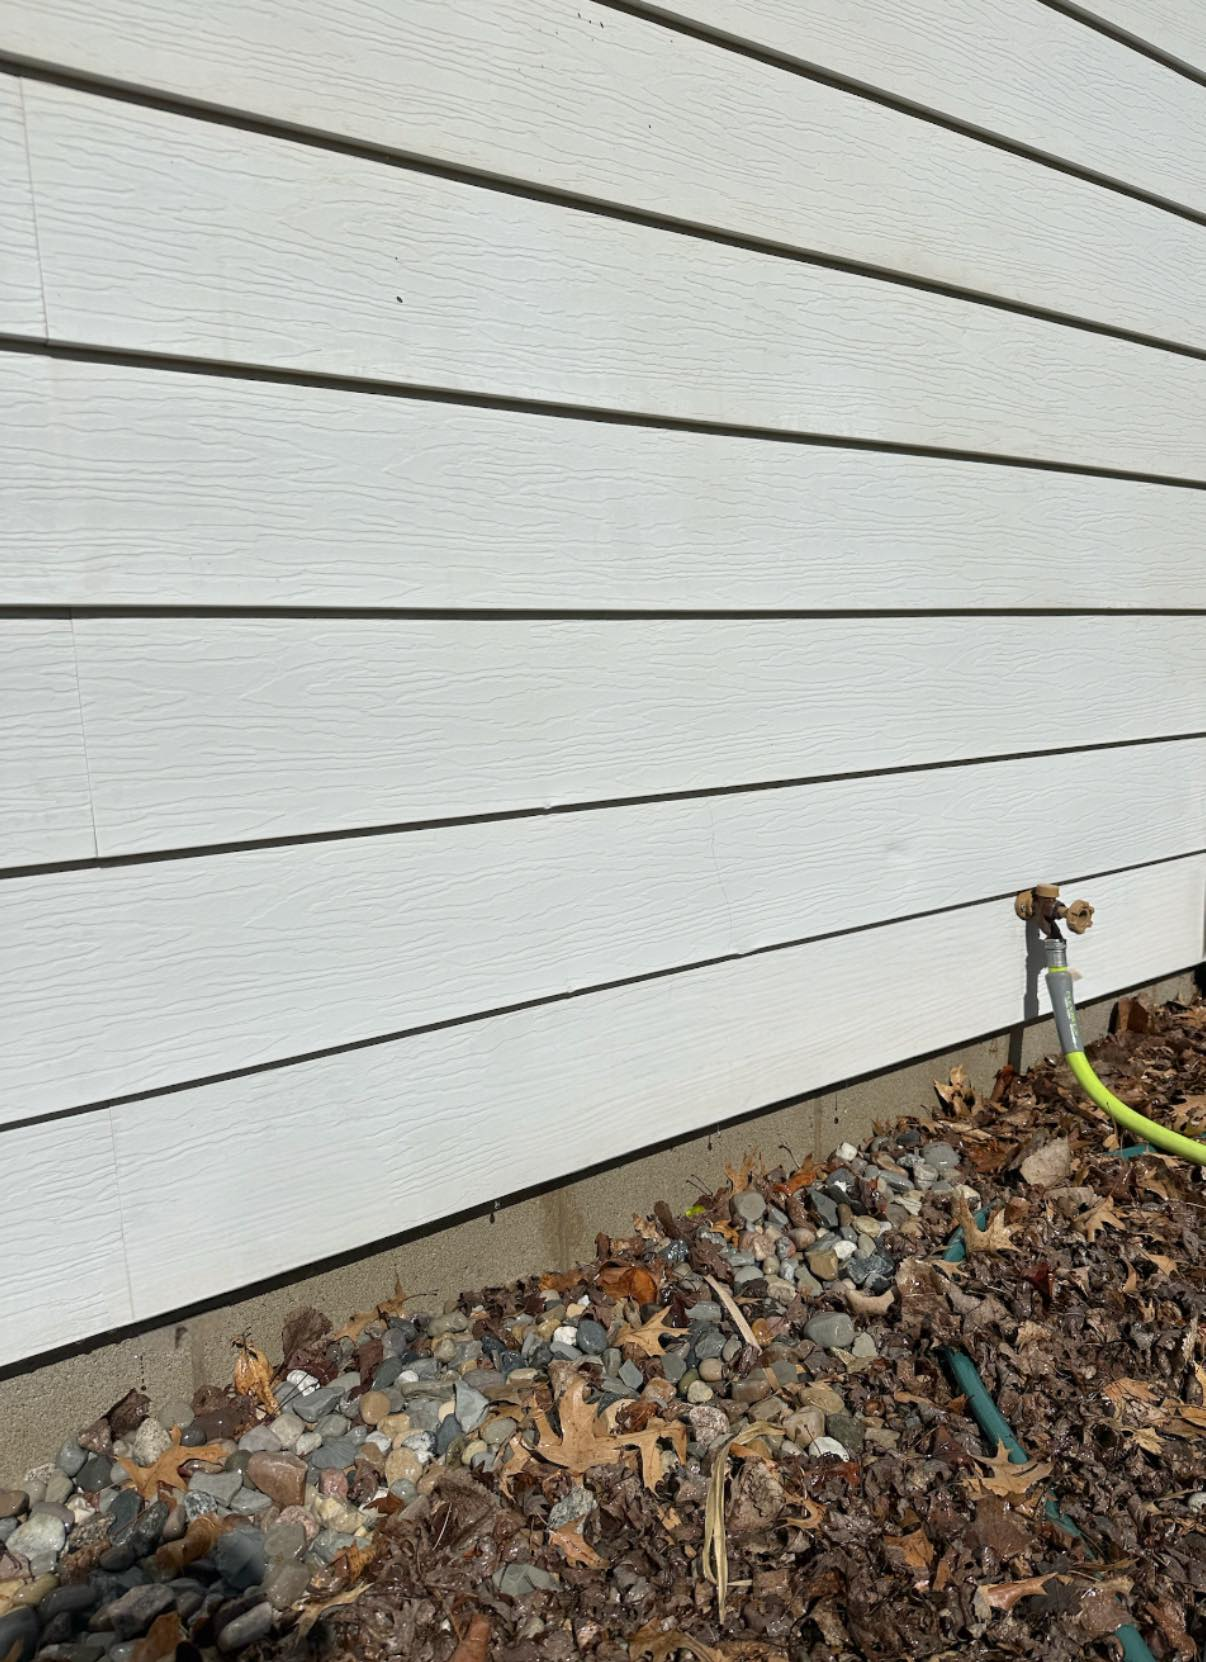
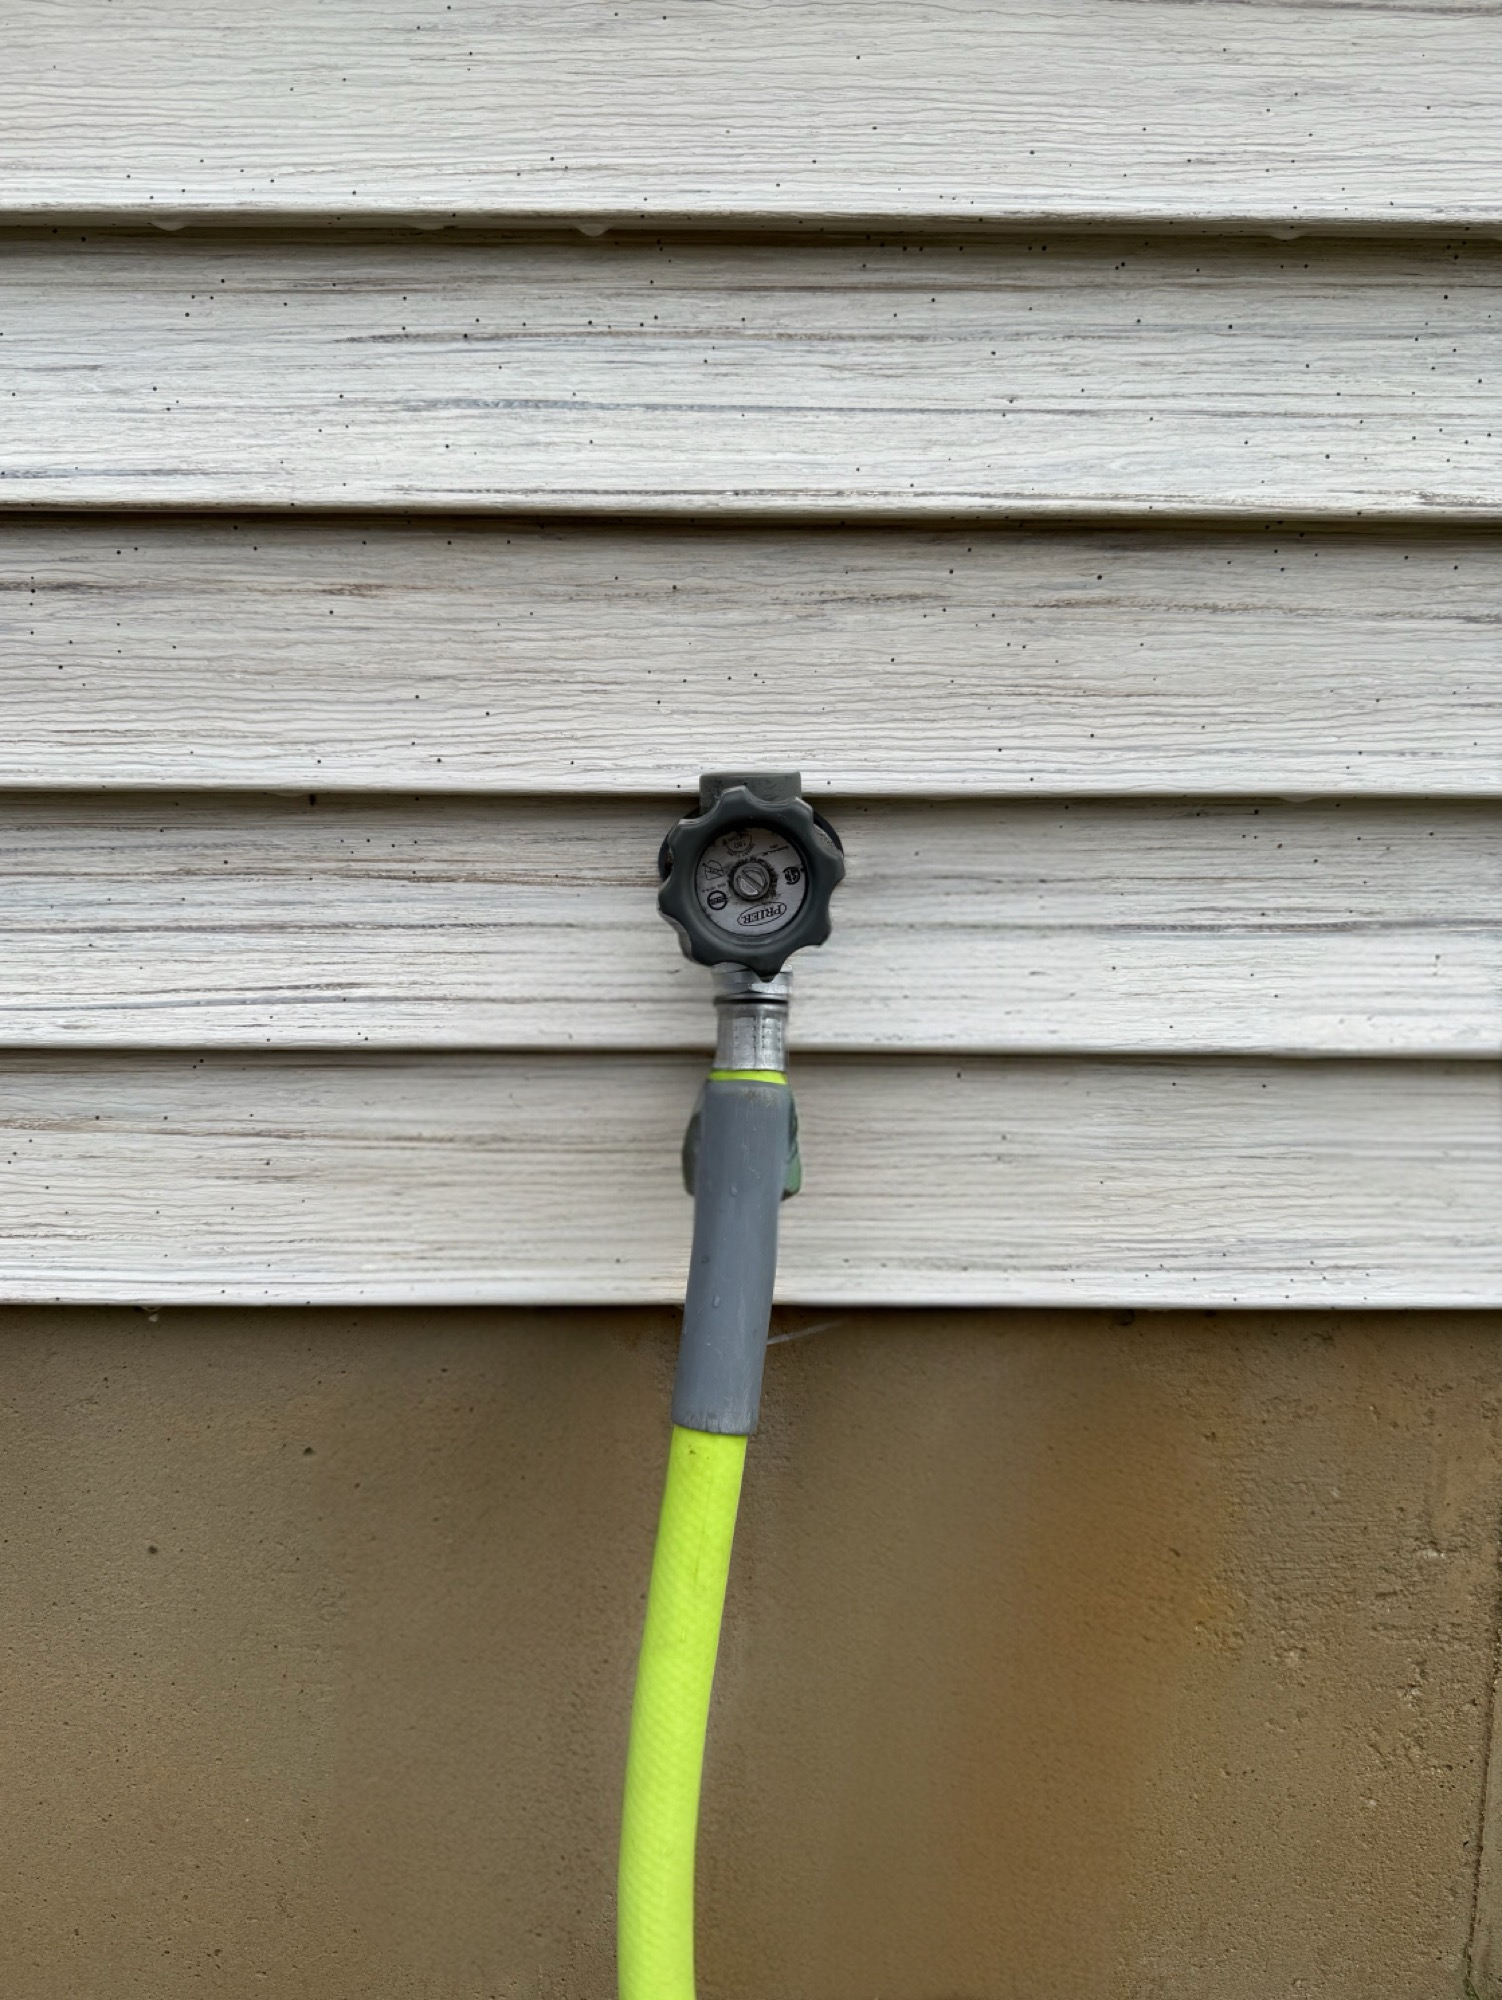
photo updates

diff --git a/src/components/Services.jsx b/src/components/Services.jsx
@@ -50,6 +50,10 @@ const imagePositionMap = {
   "Drive-Thrus & High Traffic Areas": "center 62%",
 }
 
+const mobileImagePositionMap = {
+  "Schools, Retail Centers & Offices": "center 24%",
+}
+
 const beforeAfterMap = {
   "House Washing": { before: clientHouseBefore, after: clientHouseAfter, label: "House Washing" },
   "Roof Cleaning": { before: clientRoofBefore, after: clientRoofAfter, label: "Roof Cleaning" },
@@ -60,7 +64,12 @@ const beforeAfterMap = {
     beforePosition: "center 62%",
     afterPosition: "center 80%",
   },
-  "Decks & Fences": { before: clientDeckBefore, after: clientDeckAfter, label: "Decks & Fences" },
+  "Decks & Fences": {
+    before: clientDeckBefore,
+    after: clientDeckAfter,
+    label: "Decks & Fences",
+    beforePosition: "center 58%",
+  },
   "Rust Removal": { before: beforeSiding, after: imgSiding, label: "Rust Removal" },
   "Paver Cleaning, Sanding & Sealing": { before: clientPaversBefore, after: clientPaversAfter, label: "Paver Cleaning, Sanding & Sealing" },
   "Buildings & Storefronts": { before: clientCommercialBuildingBefore, after: clientCommercialBuildingAfter, label: "Buildings & Storefronts" },
@@ -289,7 +298,7 @@ function MobileAccordion({ card, expandedCard, setExpandedCard, tab, i }) {
                 src={imageMap[card.name]}
                 alt={`${card.name} result by Under Pressure Exterior Cleaning`}
                 className="w-full h-[280px] object-cover rounded-xl mb-4"
-                style={{ objectPosition: imagePositionMap[card.name] ?? "center" }}
+                style={{ objectPosition: mobileImagePositionMap[card.name] ?? imagePositionMap[card.name] ?? "center" }}
                 loading="lazy"
                 decoding="async"
               />

diff --git a/src/components/BeforeAfter.jsx b/src/components/BeforeAfter.jsx
@@ -27,7 +27,12 @@ const pairs = [
     label: "Driveway & Concrete Cleaning",
     afterPosition: "center 66%",
   },
-  { before: clientDeckBefore, after: clientDeckAfter, label: "Decks & Fences" },
+  {
+    before: clientDeckBefore,
+    after: clientDeckAfter,
+    label: "Decks & Fences",
+    beforePosition: "center 58%",
+  },
   { before: clientRoofBefore, after: clientRoofAfter, label: "Roof Cleaning" },
   { before: clientPaversBefore, after: clientPaversAfter, label: "Paver Cleaning, Sanding & Sealing" },
   { before: clientPropertyManagementBefore, after: clientPropertyManagementAfter, label: "Property Management" },